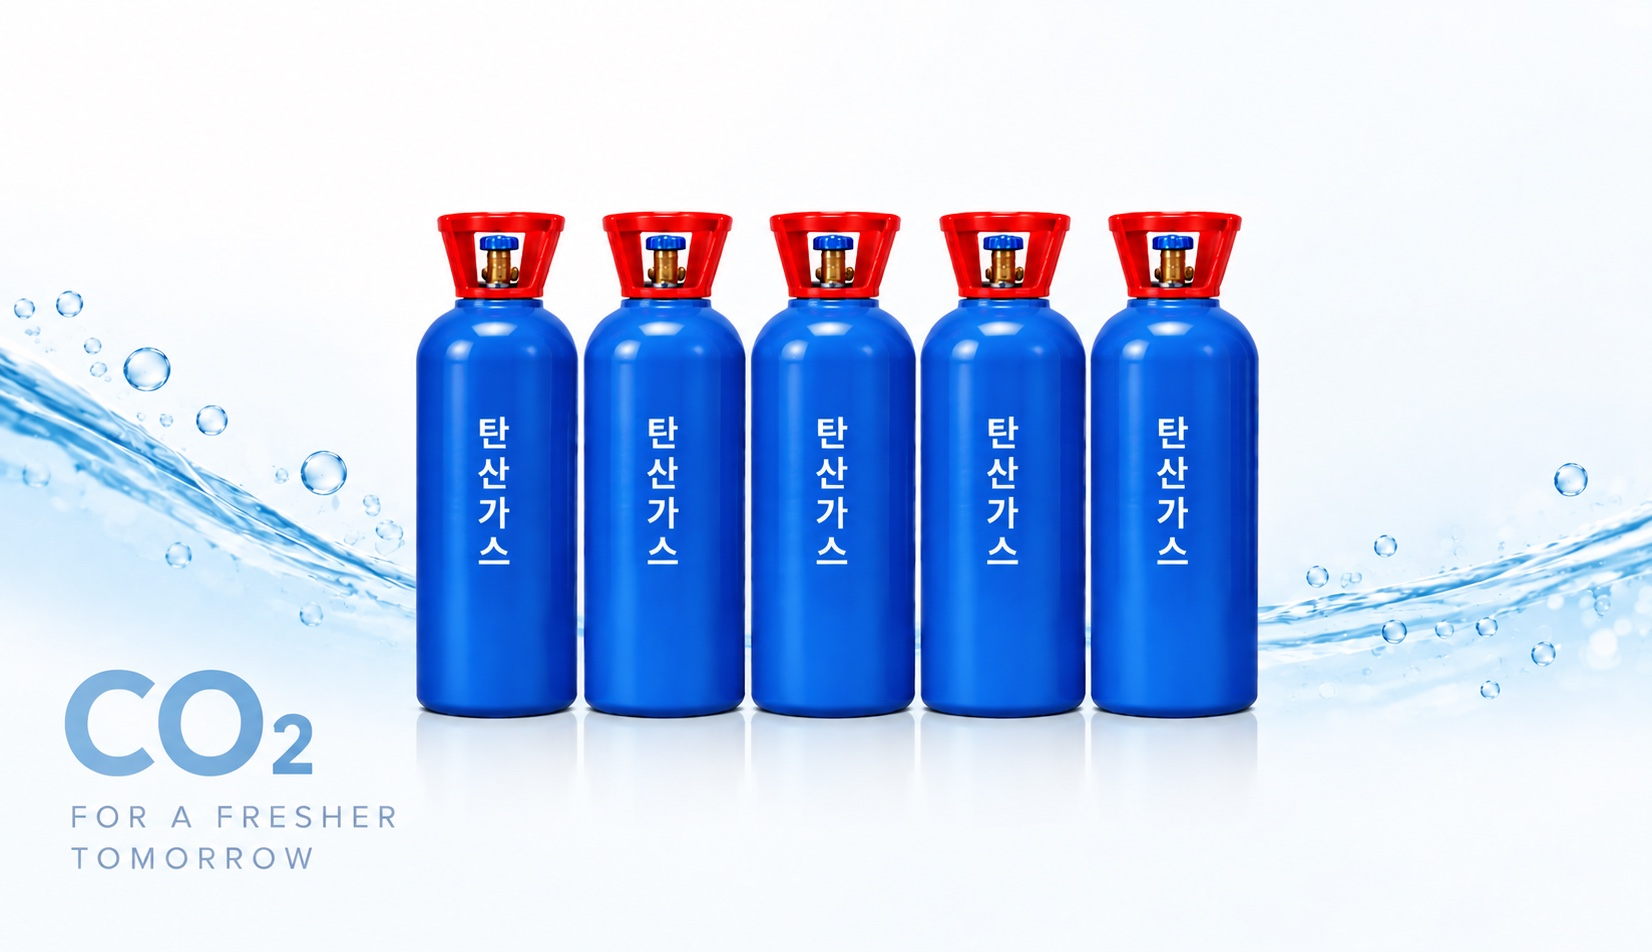
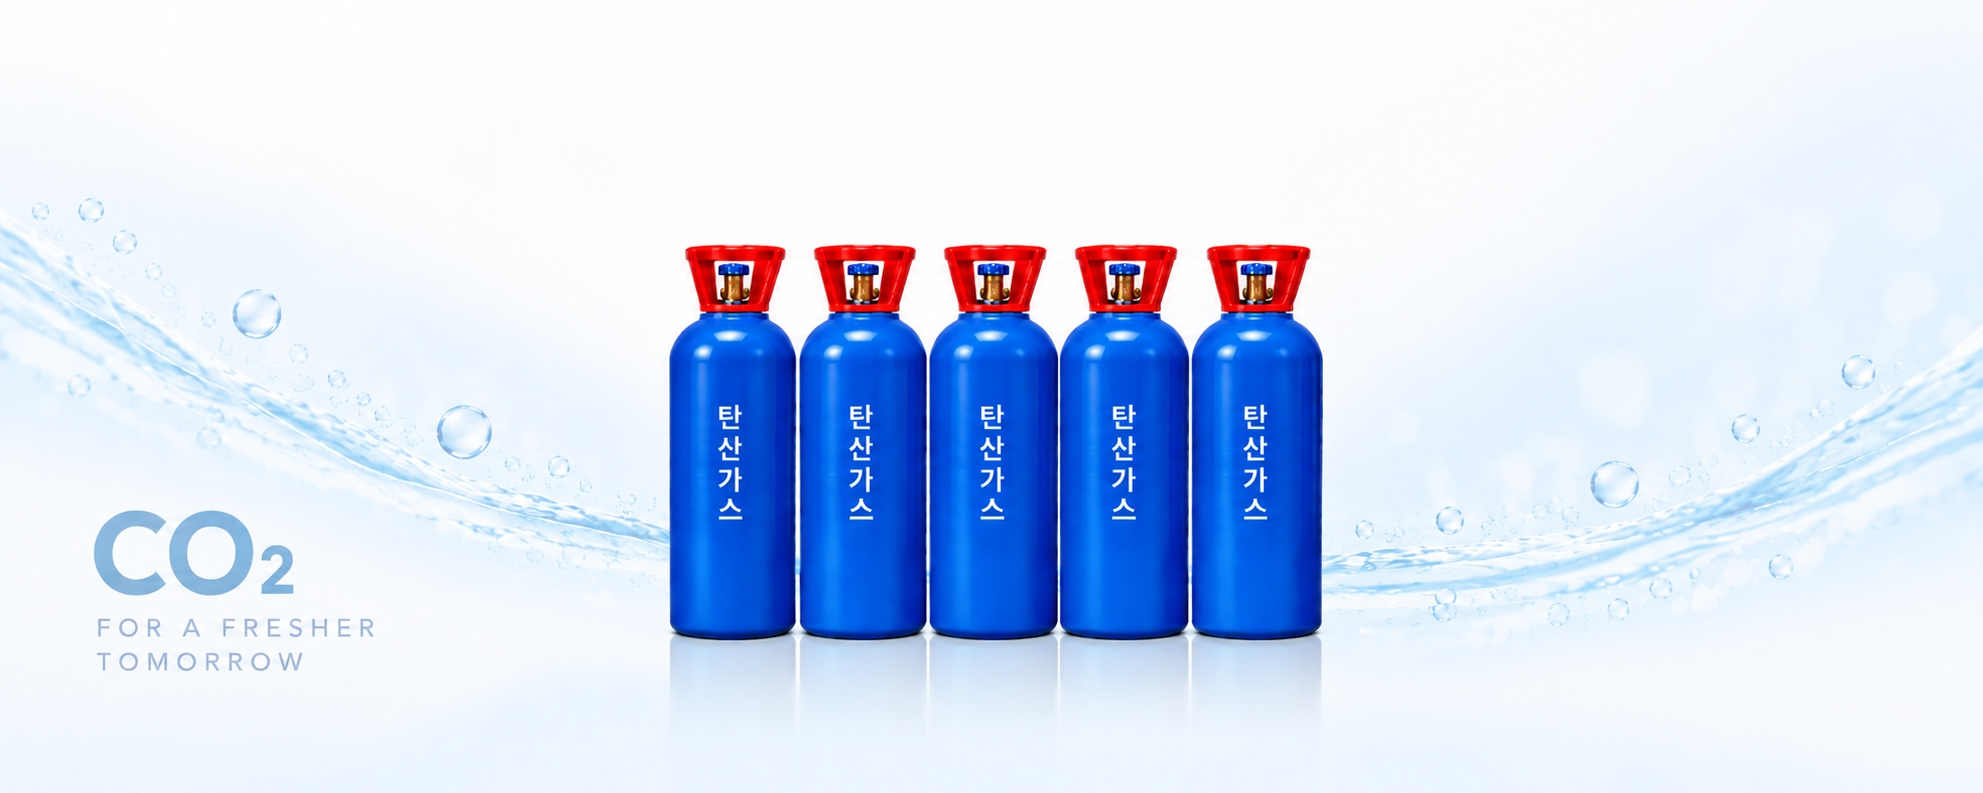
식음료 카드: 배경을 신규 와이드 이미지로 교체, 제목·아이콘을 다른 카드와 동일한 좌상단 위치로, 소개문을 카드 하단으로 이동(space-between). style.css ?v=424

diff --git a/products-gas.html b/products-gas.html
@@ -7,7 +7,7 @@
   <meta name="description" content="산업용·의료용·혼합·특수·액화석유가스 — 고순도 산소·질소·아르곤·수소·헬륨·탄산·LPG를 Bulk·실린더로 공급·제조합니다.">
   <link rel="stylesheet" href="assets/css/reset.css">
   <link rel="stylesheet" href="assets/css/variables.css?v=20260801">
-  <link rel="stylesheet" href="assets/css/style.css?v=20260731-422">
+  <link rel="stylesheet" href="assets/css/style.css?v=20260731-424">
 </head>
 <body>
 
@@ -254,8 +254,9 @@
                 <li class="pgcard pgcard--titled pgcard--foodbg">
                   <div class="pgcard__head pgcard__head--center">
                     <span class="pgcard__ic pgcard__ic--img" aria-hidden="true"><img src="assets/images/site/prodtab/ic-foodbev.png?v=20260910" alt="" loading="lazy"></span>
-                    <div><b class="pgcard__name">식음료가스</b><span class="pgcard__lead">식품의 신선함과 품질을 유지하는 식품·음료용 탄산가스를 공급합니다.</span></div>
+                    <div><b class="pgcard__name">식음료가스</b></div>
                   </div>
+                  <p class="pgcard__use">식품의 신선함과 품질을 유지하는 식품·음료용 탄산가스를 공급합니다.</p>
                 </li>
               </ul>
             </div>

diff --git a/assets/css/style.css b/assets/css/style.css
@@ -1684,8 +1684,7 @@ html[lang="en"] .greeting__sign .sign-name { display: block; margin-left: 0; mar
 .pgcard--titled .pgcard__text--gases { margin-bottom: var(--space-3); }
 .pgcard__use { font-size: .86rem; color: var(--text-muted); text-align: center; line-height: 1.6; margin: 0 var(--space-5) var(--space-6); word-break: keep-all; }
 /* 식음료 카드: 물·기포 배경 이미지(전체 표시) */
-.pgcard.pgcard--foodbg { background: #f4fafe url("../images/site/gas-foodbev-bg.jpg?v=20260910b") center/contain no-repeat; justify-content: flex-start; }
-.pgcard--foodbg .pgcard__head { padding-top: var(--space-6); }
+.prodlineup .pgcard.pgcard--foodbg { background: #f4fafe url("../images/site/gas-foodbev-bg.jpg?v=20260910c") center/contain no-repeat; justify-content: space-between; }
 /* 배경 위에 용기 이미지(투명 배경)가 보이도록 */
 .pgcard--foodbg .pgcard__media { background: none; }
 .prodgrid--food .pgcard--foodbg .pgcard__media img,

diff --git a/company.html b/company.html
@@ -7,7 +7,7 @@
   <meta name="description" content="한국탄산화학㈜ 회사소개 — 회사 개요, 주요 사업 영역, 연혁, 조직도, 생산시설 및 강점.">
   <link rel="stylesheet" href="assets/css/reset.css">
   <link rel="stylesheet" href="assets/css/variables.css?v=20260801">
-  <link rel="stylesheet" href="assets/css/style.css?v=20260731-422">
+  <link rel="stylesheet" href="assets/css/style.css?v=20260731-424">
   <!-- 대표이사 서명용 손글씨 폰트 (한글: Nanum Pen Script, 일어: Yomogi) -->
   <link rel="preconnect" href="https://fonts.googleapis.com">
   <link rel="preconnect" href="https://fonts.gstatic.com" crossorigin>

diff --git a/company-overview.html b/company-overview.html
@@ -8,7 +8,7 @@
   <meta name="description" content="한국탄산화학㈜ 회사 개요와 조직도 — 상호·설립·사업분야·생산제품 및 조직 구성.">
   <link rel="stylesheet" href="assets/css/reset.css">
   <link rel="stylesheet" href="assets/css/variables.css?v=20260801">
-  <link rel="stylesheet" href="assets/css/style.css?v=20260731-422">
+  <link rel="stylesheet" href="assets/css/style.css?v=20260731-424">
   <!-- 대표이사 서명용 손글씨 폰트 (한글: Nanum Pen Script, 일어: Yomogi) -->
   <link rel="preconnect" href="https://fonts.googleapis.com">
   <link rel="preconnect" href="https://fonts.gstatic.com" crossorigin>

diff --git a/company-network.html b/company-network.html
@@ -7,7 +7,7 @@
   <meta name="description" content="한국탄산화학㈜ 계열사 — 관계사 네트워크.">
   <link rel="stylesheet" href="assets/css/reset.css">
   <link rel="stylesheet" href="assets/css/variables.css?v=20260801">
-  <link rel="stylesheet" href="assets/css/style.css?v=20260731-422">
+  <link rel="stylesheet" href="assets/css/style.css?v=20260731-424">
   <!-- 대표이사 서명용 손글씨 폰트 (한글: Nanum Pen Script, 일어: Yomogi) -->
   <link rel="preconnect" href="https://fonts.googleapis.com">
   <link rel="preconnect" href="https://fonts.gstatic.com" crossorigin>

diff --git a/products-supply.html b/products-supply.html
@@ -7,7 +7,7 @@
   <meta name="description" content="고압가스 용기 재검사 — 한국가스안전공사 지정 전문검사기관 ㈜부성테크니컬(계열사)이 접수·내압시험·표면처리·판정의 4단계 검사로 용기 안전을 책임집니다.">
   <link rel="stylesheet" href="assets/css/reset.css">
   <link rel="stylesheet" href="assets/css/variables.css?v=20260801">
-  <link rel="stylesheet" href="assets/css/style.css?v=20260731-422">
+  <link rel="stylesheet" href="assets/css/style.css?v=20260731-424">
 </head>
 <body>
 

diff --git a/products-ice.html b/products-ice.html
@@ -7,7 +7,7 @@
   <meta name="description" content="드라이아이스 너겟·블록 생산설비 日産 36톤. 고밀도 1.60g/㎤·고순도 99.995% 식품용 드라이아이스와 제조공정·용도·취급안전을 소개합니다.">
   <link rel="stylesheet" href="assets/css/reset.css">
   <link rel="stylesheet" href="assets/css/variables.css?v=20260801">
-  <link rel="stylesheet" href="assets/css/style.css?v=20260731-422">
+  <link rel="stylesheet" href="assets/css/style.css?v=20260731-424">
 </head>
 <body>
 

diff --git a/index.html b/index.html
@@ -7,7 +7,7 @@
   <meta name="description" content="한국탄산화학㈜(KLCC)는 산소·질소·아르곤·탄산·수소 등 산업용·의료용 가스와 드라이아이스를 제조·공급하는 전문기업입니다.">
   <link rel="stylesheet" href="assets/css/reset.css">
   <link rel="stylesheet" href="assets/css/variables.css?v=20260801">
-  <link rel="stylesheet" href="assets/css/style.css?v=20260731-422">
+  <link rel="stylesheet" href="assets/css/style.css?v=20260731-424">
 </head>
 <body>
 

diff --git a/products-construction.html b/products-construction.html
@@ -7,7 +7,7 @@
   <meta name="description" content="가스 설비 시설·시공 — 액화가스 저장탱크·기화설비·배관·공급설비를 설계부터 시운전·사후관리까지 원스톱으로 시공합니다.">
   <link rel="stylesheet" href="assets/css/reset.css">
   <link rel="stylesheet" href="assets/css/variables.css?v=20260801">
-  <link rel="stylesheet" href="assets/css/style.css?v=20260731-422">
+  <link rel="stylesheet" href="assets/css/style.css?v=20260731-424">
 </head>
 <body>
 

diff --git a/quality.html b/quality.html
@@ -7,7 +7,7 @@
   <meta name="description" content="고순도 제조 역량, 식품첨가물 탄산가스 품질, 용기검사장, Gas Service Team.">
   <link rel="stylesheet" href="assets/css/reset.css">
   <link rel="stylesheet" href="assets/css/variables.css?v=20260801">
-  <link rel="stylesheet" href="assets/css/style.css?v=20260731-422">
+  <link rel="stylesheet" href="assets/css/style.css?v=20260731-424">
 </head>
 <body>
 

diff --git a/support.html b/support.html
@@ -7,7 +7,7 @@
   <meta name="description" content="한국탄산화학 고객지원 — 사업장 연락처, 자주 묻는 질문.">
   <link rel="stylesheet" href="assets/css/reset.css">
   <link rel="stylesheet" href="assets/css/variables.css?v=20260801">
-  <link rel="stylesheet" href="assets/css/style.css?v=20260731-422">
+  <link rel="stylesheet" href="assets/css/style.css?v=20260731-424">
 </head>
 <body>
 
